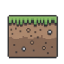
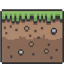
adding graphics 2

diff --git a/app/craftshore/components/CraftshorePhaserGame.tsx b/app/craftshore/components/CraftshorePhaserGame.tsx
@@ -20,8 +20,8 @@ type CraftshorePhaserGameProps = {
   onMarketInteract?: () => void;
 };
 
-// match a 16:9 game (used with 1280x720 config)
-const WORLD_HEIGHT = 720;
+// Match roughly your sky image height so we don't get weird repeats
+const WORLD_HEIGHT = 540;
 
 export default function CraftshorePhaserGame(
   props: CraftshorePhaserGameProps
@@ -56,27 +56,28 @@ export default function CraftshorePhaserGame(
 
         private buildingPositions: { type: string; x: number }[] = [];
 
-        // parallax background layers
-        private bgSky?: Phaser.GameObjects.TileSprite;
-        private bgMountains?: Phaser.GameObjects.TileSprite;
-        private bgTreeline?: Phaser.GameObjects.TileSprite;
+        // Background layers as plain images (no tileSprite so we don't repeat vertically)
+        private bgSky?: Phaser.GameObjects.Image;
+        private bgMountains?: Phaser.GameObjects.Image;
+        private bgTreeline?: Phaser.GameObjects.Image;
 
         constructor() {
           super("CraftshoreScene");
         }
 
         preload() {
-          // --- Background layers ---
+          // --- BACKGROUNDS ---
           this.load.image("bg_sky", "/craftshore/bg/sky.png");
           this.load.image("bg_mountains", "/craftshore/bg/mountains.png");
           this.load.image("bg_treeline", "/craftshore/bg/treeline.png");
 
-          // --- Ground tiles ---
+          // --- GROUND TILES ---
           this.load.image("tile_ground1", "/craftshore/tiles/ground_1.png");
           this.load.image("tile_ground2", "/craftshore/tiles/ground_2.png");
           this.load.image("tile_ground3", "/craftshore/tiles/ground_3.png");
+          this.load.image("tile_ground4", "/craftshore/tiles/ground_4.png");
+          this.load.image("tile_ground5", "/craftshore/tiles/ground_5.png");
 
-          // Optional side tiles
           this.load.image(
             "tile_ground_side_left",
             "/craftshore/tiles/ground_side_left.png"
@@ -88,69 +89,106 @@ export default function CraftshorePhaserGame(
         }
 
         create() {
-          const W = this.scale.width; // 1280
-          const H = this.scale.height; // 720
+          const W = this.scale.width; // 1280 from config
+          const H = this.scale.height; // WORLD_HEIGHT
 
           // World bounds & camera
           this.cameras.main.setBackgroundColor(0x020617);
           this.cameras.main.setBounds(0, 0, worldWidth, WORLD_HEIGHT);
           this.physics.world.setBounds(0, 0, worldWidth, WORLD_HEIGHT);
 
-          // --- PARALLAX BACKGROUND LAYERS ---
+          // --------------------------------
+          // BACKGROUND LAYERS (NO REPEATING)
+          // --------------------------------
+          // Sky: fills whole viewport, static to camera
           this.bgSky = this.add
-            .tileSprite(0, 0, W, H, "bg_sky")
+            .image(0, 0, "bg_sky")
             .setOrigin(0, 0)
             .setScrollFactor(0);
 
+          this.bgSky.setDisplaySize(W, H);
+
+          // Mountains: parallax, slightly slower than camera
           this.bgMountains = this.add
-            .tileSprite(0, 0, W, H, "bg_mountains")
-            .setOrigin(0, 0)
-            .setScrollFactor(0.2);
+            .image(0, H, "bg_mountains")
+            .setOrigin(0, 1)
+            .setScrollFactor(0.25);
 
+          // Stretch horizontally so it covers the world nicely
+          const mTex = this.textures.get("bg_mountains").getSourceImage() as
+            | HTMLImageElement
+            | HTMLCanvasElement;
+          if (mTex && this.bgMountains) {
+            const scaleX = worldWidth / mTex.width;
+            this.bgMountains.setDisplaySize(worldWidth, mTex.height * scaleX);
+          }
+
+          // Treeline: a bit faster
           this.bgTreeline = this.add
-            .tileSprite(0, 0, W, H, "bg_treeline")
-            .setOrigin(0, 0)
-            .setScrollFactor(0.4);
+            .image(0, H, "bg_treeline")
+            .setOrigin(0, 1)
+            .setScrollFactor(0.5);
 
-          // --- GROUND TILES ---
+          const tTex = this.textures.get("bg_treeline").getSourceImage() as
+            | HTMLImageElement
+            | HTMLCanvasElement;
+          if (tTex && this.bgTreeline) {
+            const scaleX = worldWidth / tTex.width;
+            this.bgTreeline.setDisplaySize(worldWidth, tTex.height * scaleX);
+          }
+
+          // --------------------------------
+          // GROUND TILES (VISUAL) + COLLIDER
+          // --------------------------------
           const groundTileKeys = [
             "tile_ground1",
             "tile_ground2",
             "tile_ground3",
+            "tile_ground4",
+            "tile_ground5",
           ];
 
+          // Visual tiles – we scale them so they match your grid size
           for (let x = 0; x < props.gridWidthInTiles; x++) {
             const key = Phaser.Utils.Array.GetRandom(groundTileKeys);
-            this.add
-              .image(x * props.tileSize, props.groundY, key)
-              .setOrigin(0, 1)
+            const worldX = x * props.tileSize + props.tileSize / 2;
+
+            const tile = this.add
+              .image(worldX, props.groundY, key)
+              .setOrigin(0.5, 1)
               .setDepth(5);
+
+            // Scale to fill the 64px grid width
+            const baseW = tile.width || 48;
+            const scale = props.tileSize / baseW;
+            tile.setScale(scale);
           }
 
           // Optional left/right caps if you’re using them
           if (this.textures.exists("tile_ground_side_left")) {
-            this.add
+            const leftCap = this.add
               .image(0, props.groundY, "tile_ground_side_left")
               .setOrigin(1, 1)
               .setDepth(5);
+            const baseW = leftCap.width || 48;
+            leftCap.setScale(props.tileSize / baseW);
           }
+
           if (this.textures.exists("tile_ground_side_right")) {
-            this.add
-              .image(
-                worldWidth,
-                props.groundY,
-                "tile_ground_side_right"
-              )
+            const rightCap = this.add
+              .image(worldWidth, props.groundY, "tile_ground_side_right")
               .setOrigin(0, 1)
               .setDepth(5);
+            const baseW = rightCap.width || 48;
+            rightCap.setScale(props.tileSize / baseW);
           }
 
           // Invisible physics ground so the player can stand
           const groundCollider = this.add.rectangle(
             worldWidth / 2,
-            props.groundY + 10,
+            props.groundY + 4, // just slightly below the tile bottoms
             worldWidth,
-            20,
+            12,
             0xffffff,
             0
           ) as Phaser.GameObjects.Rectangle & {
@@ -158,13 +196,15 @@ export default function CraftshorePhaserGame(
           };
           this.physics.add.existing(groundCollider, true);
 
-          // Player
+          // ----------------
+          // PLAYER
+          // ----------------
           this.player = this.add.rectangle(
             200,
-            props.groundY - 60,
+            props.groundY - 40,
             32,
             48,
-            0xf97316 // orange-500
+            0xf97316
           ) as Phaser.GameObjects.Rectangle & {
             body: Phaser.Physics.Arcade.Body;
           };
@@ -177,7 +217,9 @@ export default function CraftshorePhaserGame(
           // Collisions
           this.physics.add.collider(this.player, groundCollider);
 
-          // Building slots
+          // ----------------
+          // BUILDINGS
+          // ----------------
           const buildingColorByType: Record<string, number> = {
             mine: 0x9ca3af, // gray
             farm: 0x22c55e, // green
@@ -193,12 +235,13 @@ export default function CraftshorePhaserGame(
 
             const rect = this.add.rectangle(
               x,
-              props.groundY - 64,
+              props.groundY - 72,
               props.tileSize,
-              96,
+              112,
               color
             );
             rect.setStrokeStyle(2, 0x020617);
+            rect.setDepth(6);
 
             const label = this.add.text(
               x,
@@ -210,17 +253,18 @@ export default function CraftshorePhaserGame(
               }
             );
             label.setOrigin(0.5);
+            label.setDepth(7);
 
             this.buildingPositions.push({ type: b.type, x });
           });
 
-          // Grid hint lines (subtle, behind everything)
+          // Debug grid lines (very faint, behind everything)
           for (let i = 0; i <= props.gridWidthInTiles; i++) {
             const x = i * props.tileSize;
             const line = this.add
-              .line(0, 0, x, 0, x, WORLD_HEIGHT, 0x020617, 0.35)
+              .line(0, 0, x, 0, x, WORLD_HEIGHT, 0x111827, 0.25)
               .setOrigin(0, 0);
-            line.setDepth(-1);
+            line.setDepth(-5);
           }
 
           // Camera follows player
@@ -248,27 +292,15 @@ export default function CraftshorePhaserGame(
 
           // Helper text (fixed to camera)
           this.add
-            .text(
-              40,
-              20,
-              "Move: WASD or arrows   •   Interact: E",
-              { fontSize: "12px", color: "#9ca3af" }
-            )
+            .text(40, 20, "Move: WASD or arrows   •   Interact: E", {
+              fontSize: "12px",
+              color: "#9ca3af",
+            })
             .setScrollFactor(0, 0)
             .setDepth(20);
         }
 
         update() {
-          const cam = this.cameras.main;
-
-          // Parallax scroll
-          if (this.bgMountains) {
-            this.bgMountains.tilePositionX = cam.scrollX * 0.2;
-          }
-          if (this.bgTreeline) {
-            this.bgTreeline.tilePositionX = cam.scrollX * 0.4;
-          }
-
           if (!this.player) return;
 
           const body = this.player.body;
@@ -373,7 +405,7 @@ export default function CraftshorePhaserGame(
           },
         },
         scale: {
-          mode: Phaser.Scale.FIT, // keep a stable 16:9 inside the parent
+          mode: Phaser.Scale.FIT,
           autoCenter: Phaser.Scale.CENTER_BOTH,
         },
         scene: CraftshoreScene,
@@ -404,8 +436,8 @@ export default function CraftshorePhaserGame(
   return (
     <div
       ref={containerRef}
-      // This div is inside .craftshore-game-inner which already has aspect-ratio: 16/9
-      className="w-full h-full bg-slate-900 rounded-lg overflow-hidden border border-slate-700"
+      // Fixed height that matches WORLD_HEIGHT so it stops changing
+      className="w-full h-[540px] bg-slate-900 rounded-lg overflow-hidden border border-slate-700"
     />
   );
 }
